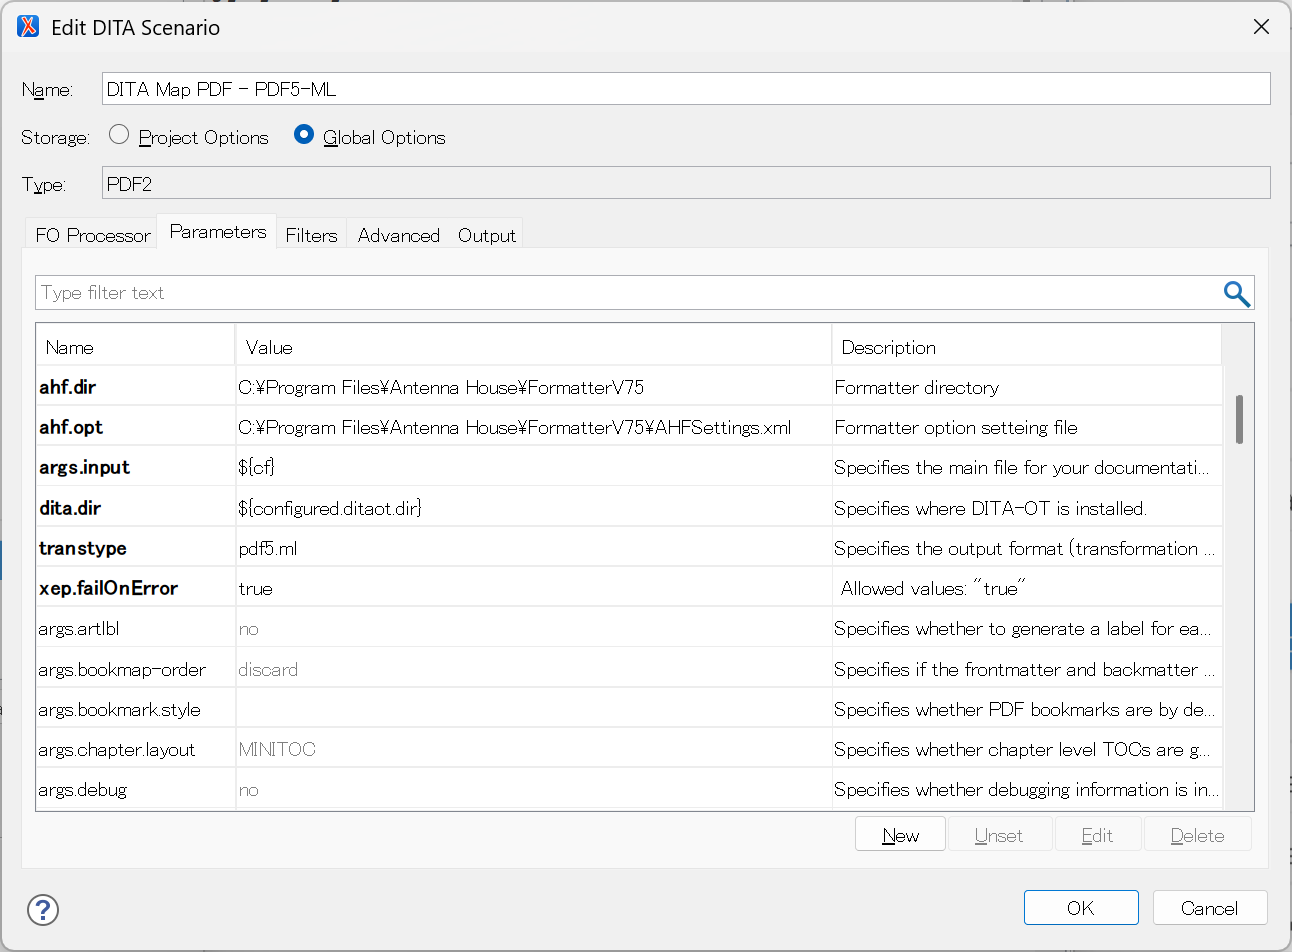
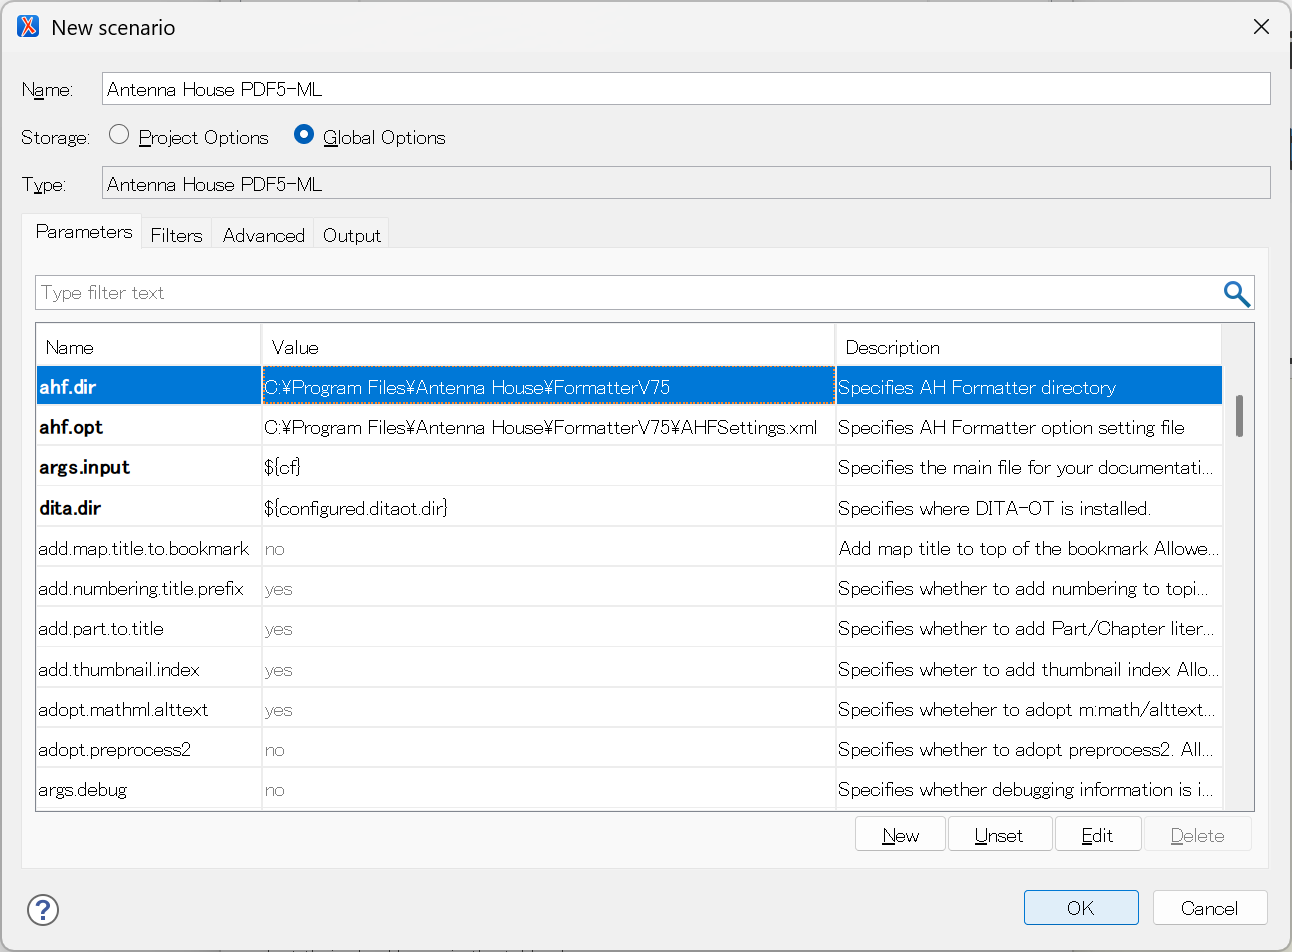
Update creating scenario description

diff --git a/oxygen-integration/oxygen-integration.htm b/oxygen-integration/oxygen-integration.htm
@@ -1,11 +1,11 @@
 <!DOCTYPE HTML><html xml:lang="en" lang="en">
    <head>
       <meta http-equiv="Content-Type" content="text/html; charset=UTF-8">
-      <title>Integrating PDF5-ML with oXygen XML Editor</title>
+      <title>Integrating PDF5-ML with Oxygen XML Editor</title>
       <link rel="stylesheet" href="toshi_en.css" type="text/css">
    </head>
    <body>
-      <h1 style="text-align:center;">Integrating PDF5-ML with oXygen XML Editor</h1>
+      <h1 style="text-align:center;">Integrating PDF5-ML with Oxygen XML Editor</h1>
       <p class="author">Feb, 2025.&nbsp;Antenna House, Inc.</p>
       <h2>Revision</h2>
       <table style="font-size:small;width:50%;line-height:0.9em;">
@@ -27,10 +27,10 @@
       <ul style="font-size:small;line-height:0.9em;">
          <li><a href="#overview">1&nbsp; Overview</a></li>
          <li><a href="#downloading">2&nbsp; Downloading PDF5-ML plug-in from GitHub</a></li>
-         <li><a href="#confirm-your-oXygen-dita-version-setting">3&nbsp; Confirm your oXygen XML Editor DITA version setting</a></li>
+         <li><a href="#confirm-your-Oxygen-dita-version-setting">3&nbsp; Confirm your Oxygen XML Editor DITA version setting</a></li>
          <li><a href="#copy-plugin-folder">4&nbsp; Copy plug-in folder into [DITA-OT]/plugins folder</a></li>
          <li><a href="#plugin-integration">5&nbsp; Plug-in integration</a></li>
-         <li><a href="#modify-transformation-scenario">6&nbsp; Modify transformation scenario for PDF5-ML plug-in</a></li>
+         <li><a href="#create-transformation-scenario">6&nbsp; Create transformation scenario for PDF5-ML plug-in</a></li>
          <li><a href="#test-transformation-scenario">7&nbsp; Test the transformation scenario</a></li>
       </ul>
       <hr>
@@ -39,7 +39,7 @@
       
       
       
-      <p>This document describes how to integrate PDF5-ML plug-in with oXygen XML Editor. </p>
+      <p>This document describes how to integrate PDF5-ML plug-in with Oxygen XML Editor. </p>
       
       
       <h2><a id="downloading"></a><a id="d2e31">2&nbsp;Downloading PDF5-ML plug-in from GitHub</a></h2>
@@ -52,21 +52,21 @@
          <div class="fig-title">[Fig.1]&nbsp; Downloading or cloning PDF5-ML plug-in</div><img alt="" src="image/download-from-github.png" width="300"></div>
       
       
-      <h2><a id="confirm-your-oXygen-dita-version-setting"></a><a id="d2e44">3&nbsp;Confirm your oXygen XML Editor DITA version setting</a></h2>
+      <h2><a id="confirm-your-Oxygen-dita-version-setting"></a><a id="d2e44">3&nbsp;Confirm your Oxygen XML Editor DITA version setting</a></h2>
       
       
       
-      <p>Open your oXygen XML Editor DITA setting by clicking <span style="font-family:sans-serif;">[<span style="text-decoration:underline">O</span>ptions]</span>-<span style="font-family:sans-serif;">[<span style="text-decoration:underline">P</span>references]</span> and select <span style="font-family:sans-serif;">[DITA]</span></p>
+      <p>Open your Oxygen XML Editor DITA setting by clicking <span style="font-family:sans-serif;">[<span style="text-decoration:underline">O</span>ptions]</span>-<span style="font-family:sans-serif;">[<span style="text-decoration:underline">P</span>references]</span> and select <span style="font-family:sans-serif;">[DITA]</span></p>
       
       
       <div class="fig">
          <div class="fig-title">[Fig.2]&nbsp; Confirming which DITA-OT is selected.</div><img alt="" src="image/preferences-dita-ot.png" width="700"></div>
       
       
-      <p>Confirm your oXygen XML Editor DITA-OT folder. (Abbreviated as "[DITA-OT]")</p>
+      <p>Confirm your Oxygen XML Editor DITA-OT folder. (Abbreviated as "[DITA-OT]")</p>
       
       
-      <table summary="" width="800">
+      <table width="800">
          <thead>
             <tr>
                
@@ -78,9 +78,9 @@
          <tbody>
             <tr>
                
-               <td>Bult-in DITA-OT Publishing Engine (Based on DITA-OT 4.3.x)</td>
+               <td>Bult-in DITA-OT Publishing Engine (Based on DITA-OT 4.x)</td>
                
-               <td>[oXygen Install Folder]/frameworks/dita/DITA-OT
+               <td>[Oxygen Install Folder]/frameworks/dita/DITA-OT
                   </td>
                </tr>
             <tr>
@@ -112,8 +112,8 @@
       
       <ol>
          
-         <li>Invoke oXygen XML Editor with administrator authority.<br>
-            If you use Windows, select oXygen XML Editor icon in the desktop and from context
+         <li>Invoke Oxygen XML Editor with administrator authority.<br>
+            If you use Windows, select Oxygen XML Editor icon in the desktop and from context
             menu select "Run as administrator". 
             </li>
          
@@ -131,13 +131,14 @@
       
       <pre class="code">Executing:
                 "C:\Program Files\Oxygen XML Editor 28.0\frameworks/dita/DITA-OT/bin/dita.bat" -v --install
+                Added com.antennahouse.pdf5.ml
                 The process finished with exit code: 0
             </pre>
       
       
       
       
-      <h2><a id="modify-transformation-scenario"></a><a id="d2e153">6&nbsp;Modify transformation scenario for PDF5-ML plug-in</a></h2>
+      <h2><a id="create-transformation-scenario"></a><a id="d2e153">6&nbsp;Create transformation scenario for PDF5-ML plug-in</a></h2>
       
       
       
@@ -145,35 +146,32 @@
          
          <li>
             
-            <p>From oXygen XML Editor Configure Transformation Scenario, duplicate the "DITA Map
-               PDF - based on XSL-FO".</p>
+            <p>From Oxygen XML Editor "Configure Transformation Scenario", click <span style="text-decoration:underline">N</span>ew and select "<span style="text-decoration:underline">D</span>ITA-OT transformation".</p>
             
             
             <div class="fig">
-               <div class="fig-title">[Fig.3]&nbsp; Duplicate the "DITA Map PDF" Schenario.</div><img alt="" src="image/duplicate-dita-map-pdf.png" width="700"></div>
+               <div class="fig-title">[Fig.3]&nbsp; Select DITA-OT Transformation</div><img alt="" src="image/select-ditaot-transformation.png" width="300"></div>
             </li>
          
          <li>
             
-            <p>Modify the duplicated scenario</p>
+            <p>Edit the scenario</p>
             
             <ul>
                
-               <li>Modify name from "DITA Map PDF - based on XSL-FO - Copy" to "DITA Map PDF - PDF5-ML".</li>
+               <li>Modify name to "Antenna House PDF5-ML".</li>
                
                <li>Select "<span style="text-decoration:underline">P</span>roject options" or "<span style="text-decoration:underline">G</span>lobal options" according to your decision. If the former is selected, it can be used
                   only this project. If the latter is selected it can be used from any project.</li>
                
-               <li>Modify "transtype" parameter to "pdf5.ml".</li>
+               <li>Select "ahf.dir" parameter and set your Antenna House Formatter install folder.</li>
                
-               <li>Add "ahf.dir" parameter and set your Antenna House Formatter install folder.</li>
-               
-               <li>[Optional] Add "ahf.opt" parameter and set your favorite Antenna House Formatter option
-                  setting file path.</li>
+               <li>[Optional] Select "ahf.opt" parameter and set your favorite Antenna House Formatter
+                  option setting file path.</li>
                </ul>
             
             <div class="fig">
-               <div class="fig-title">[Fig.4]&nbsp; Edit transformation scenario.</div><img alt="" src="image/edit-scenario.png" width="700"></div>
+               <div class="fig-title">[Fig.4]&nbsp; Edit transformation scenario.</div><img alt="" src="image/edit-scenario.png" width="800"></div>
             
             <p><span style="font-family:Times New Roman;">☞ <strong>NOTE:&nbsp;</strong></span><em>For more details about Antenna House Formatter setting file, refer to <a href="https://www.antenna.co.jp/AHF/help/en/ahf-optset.html">Option Setting File</a>.</em></p>
             </li>
@@ -181,18 +179,18 @@
       
       
       
-      <h2><a id="test-transformation-scenario"></a><a id="d2e199">7&nbsp;Test the transformation scenario</a></h2>
+      <h2><a id="test-transformation-scenario"></a><a id="d2e202">7&nbsp;Test the transformation scenario</a></h2>
       
       
       
       <ol>
          
-         <li>Invoke oXygen XML Editor and open any ditamap file which you want to generate PDF
+         <li>Invoke Oxygen XML Editor and open any ditamap file which you want to generate PDF
             file.</li>
          
          <li>Click <span style="font-family:sans-serif;">[Doc<span style="text-decoration:underline">u</span>ment]</span>-<span style="font-family:sans-serif;">[<span style="text-decoration:underline">T</span>ransformation]</span>-<span style="font-family:sans-serif;">[<span style="text-decoration:underline">C</span>onfigure Transformation Scenario(s)...]</span></li>
          
-         <li>Select "DITA Map PDF - PDF5-ML" scenario.</li>
+         <li>Select "Antenna House PDF5-ML" scenario.</li>
          
          <li>Click <span style="font-family:sans-serif;">[<span style="text-decoration:underline">A</span>pply associated]</span></li>
          
@@ -203,10 +201,6 @@
       <div class="fig">
          <div class="fig-title">[Fig.5]&nbsp; Run transformation scenario.</div><img alt="" src="image/run-scenario.png" width="700"></div>
       
-      <p><span style="font-family:Times New Roman;">☞ <strong>NOTE:&nbsp;</strong></span><em>By clicking following point shows the build log in the oXygen XML Editor Windows.</em></p>
-      
-      <div class="fig">
-         <div class="fig-title">[Fig.6]&nbsp; Show build log button.</div><img alt="" src="image/build-log-button.png" width="700"></div>
       
       
       
